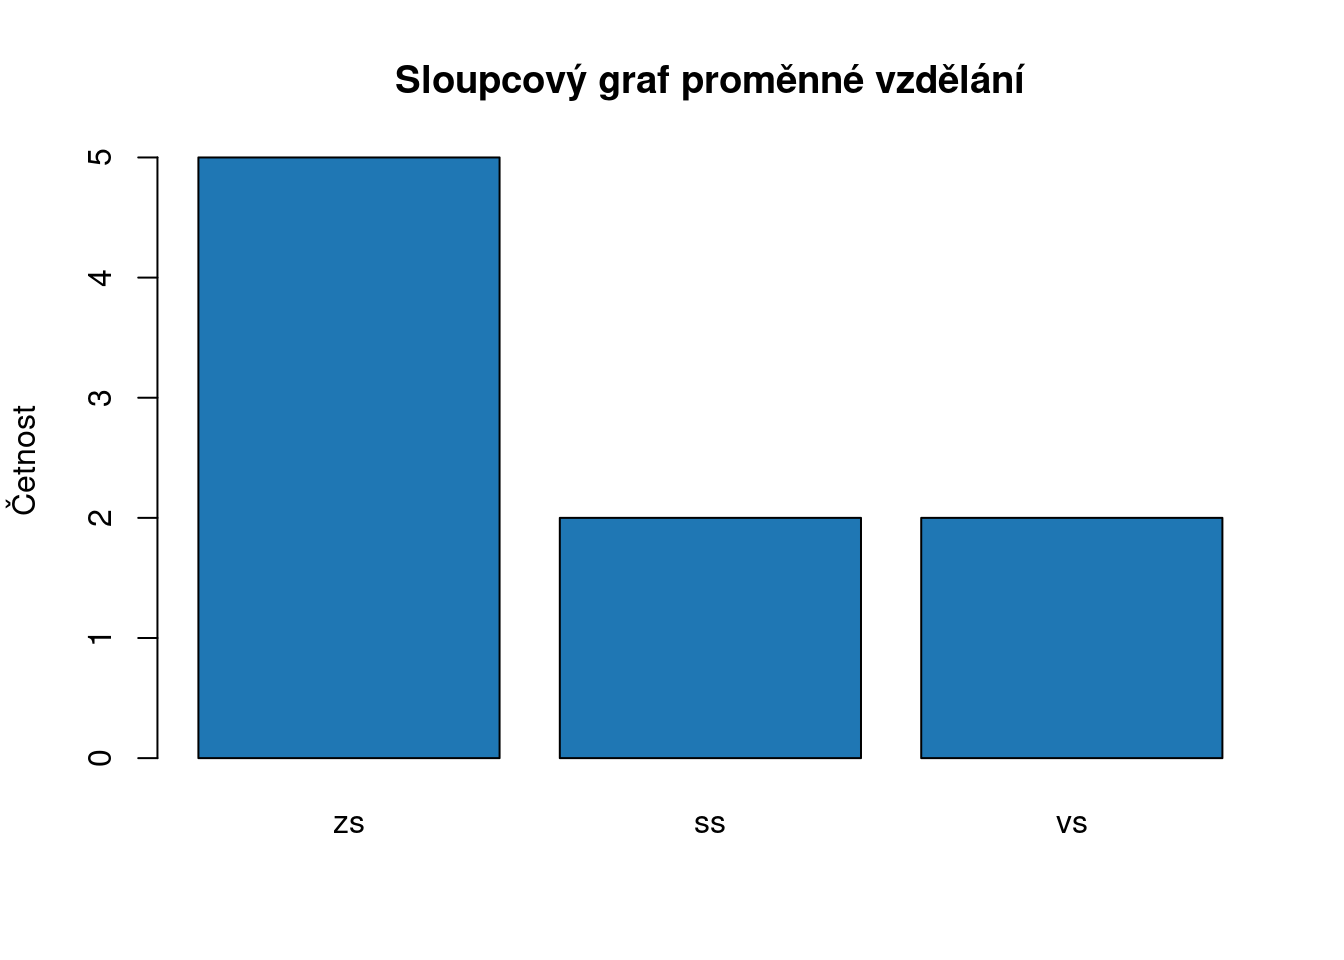
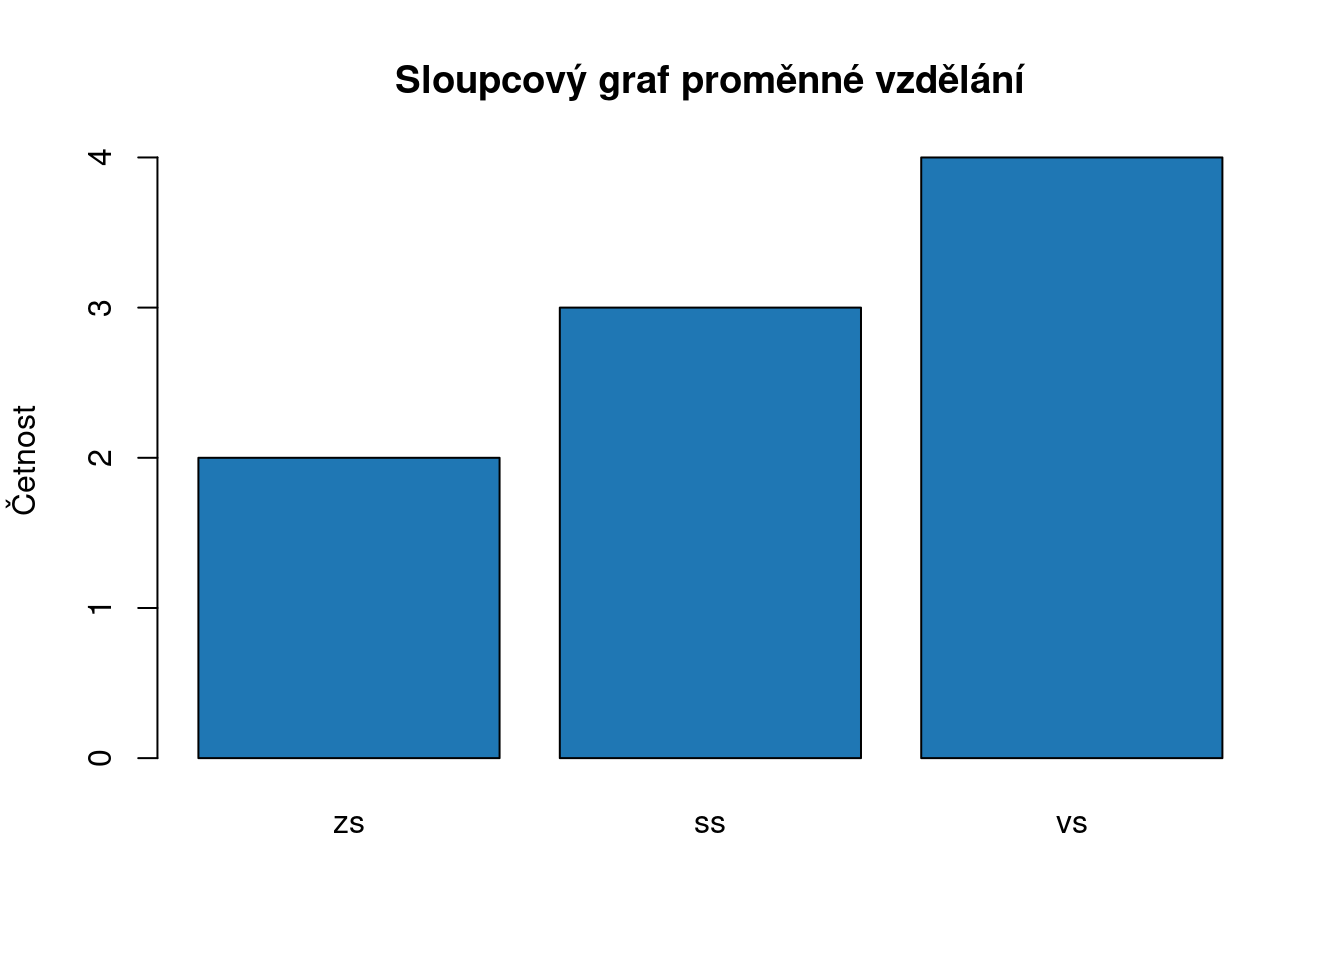
ch1

diff --git a/docs/desc.html b/docs/desc.html
@@ -210,10 +210,10 @@ Příkladem nominální promněnné je například barva. Vezměme si napříkla
 <span id="cb1-5"><a href="desc.html#cb1-5" aria-hidden="true" tabindex="-1"></a><span class="fu">print</span>(tabulka)</span></code></pre></div>
 <pre><code>## barvy_aut
 ##     bila  cervena stribrna   zelena    zluta 
-##       26       16       22       19       17</code></pre>
+##       17       20       16       25       22</code></pre>
 <div class="sourceCode" id="cb3"><pre class="sourceCode r"><code class="sourceCode r"><span id="cb3-1"><a href="desc.html#cb3-1" aria-hidden="true" tabindex="-1"></a><span class="co"># vratime nazev kategorie, ktera se vyskytuje nejcasteji</span></span>
 <span id="cb3-2"><a href="desc.html#cb3-2" aria-hidden="true" tabindex="-1"></a><span class="fu">names</span>(tabulka)[<span class="fu">which.max</span>(tabulka)]</span></code></pre></div>
-<pre><code>## [1] &quot;bila&quot;</code></pre>
+<pre><code>## [1] &quot;zelena&quot;</code></pre>
 <p>Protože budeme modus počítat dále, vytvoříme si funkci, která bude výpočet provádět.</p>
 <div class="sourceCode" id="cb5"><pre class="sourceCode r"><code class="sourceCode r"><span id="cb5-1"><a href="desc.html#cb5-1" aria-hidden="true" tabindex="-1"></a>modus <span class="ot">&lt;-</span> <span class="cf">function</span>(x) {</span>
 <span id="cb5-2"><a href="desc.html#cb5-2" aria-hidden="true" tabindex="-1"></a>  t <span class="ot">&lt;-</span> <span class="fu">table</span>(x)</span>
@@ -233,7 +233,7 @@ U ordinální proměnné, stejně jako u nominální, nemůžeme vypočítat o k
 <span id="cb6-7"><a href="desc.html#cb6-7" aria-hidden="true" tabindex="-1"></a><span class="fu">print</span>(<span class="fu">paste0</span>(<span class="st">&quot;Typ promenne, po prevedeni na factor: &quot;</span>, <span class="fu">class</span>(vzdelani_vyber)))</span></code></pre></div>
 <pre><code>## [1] &quot;Typ promenne, po prevedeni na factor: factor&quot;</code></pre>
 <div class="sourceCode" id="cb8"><pre class="sourceCode r"><code class="sourceCode r"><span id="cb8-1"><a href="desc.html#cb8-1" aria-hidden="true" tabindex="-1"></a><span class="fu">print</span>(vzdelani_vyber)</span></code></pre></div>
-<pre><code>## [1] zs zs zs zs zs ss ss vs vs
+<pre><code>## [1] zs zs ss ss ss vs vs vs vs
 ## Levels: zs ss vs</code></pre>
 <div class="sourceCode" id="cb10"><pre class="sourceCode r"><code class="sourceCode r"><span id="cb10-1"><a href="desc.html#cb10-1" aria-hidden="true" tabindex="-1"></a><span class="co"># vypocitame median</span></span>
 <span id="cb10-2"><a href="desc.html#cb10-2" aria-hidden="true" tabindex="-1"></a>n <span class="ot">&lt;-</span> <span class="dv">9</span></span>
@@ -241,10 +241,10 @@ U ordinální proměnné, stejně jako u nominální, nemůžeme vypočítat o k
 <span id="cb10-4"><a href="desc.html#cb10-4" aria-hidden="true" tabindex="-1"></a>median_vzdelani <span class="ot">&lt;-</span> <span class="fu">sort</span>(vzdelani_vyber)[indx]</span>
 <span id="cb10-5"><a href="desc.html#cb10-5" aria-hidden="true" tabindex="-1"></a></span>
 <span id="cb10-6"><a href="desc.html#cb10-6" aria-hidden="true" tabindex="-1"></a><span class="fu">print</span>(<span class="fu">paste0</span>(<span class="st">&quot;Medián vzdělání je: &quot;</span>, median_vzdelani))</span></code></pre></div>
-<pre><code>## [1] &quot;Medián vzdělání je: zs&quot;</code></pre>
+<pre><code>## [1] &quot;Medián vzdělání je: ss&quot;</code></pre>
 <p>Samozřejmě můžeme u ordinálních proměnných počítat také mód.</p>
 <div class="sourceCode" id="cb12"><pre class="sourceCode r"><code class="sourceCode r"><span id="cb12-1"><a href="desc.html#cb12-1" aria-hidden="true" tabindex="-1"></a><span class="fu">print</span>(<span class="fu">paste0</span>(<span class="st">&quot;Modus proměnné je: &quot;</span>, <span class="fu">modus</span>(vzdelani_vyber)))</span></code></pre></div>
-<pre><code>## [1] &quot;Modus proměnné je: zs&quot;</code></pre>
+<pre><code>## [1] &quot;Modus proměnné je: vs&quot;</code></pre>
 <p>Jak si asi pamatujete z předchozího semestru, u různých proměnných jsme počítali relativní četnosti (četnost je počet pozorování učité hodnoty. Relativní četnost potom počet pozorování děleno počet případů celkem). Například jsme počítali relativní četnost výsledků hodů mincí. Výsledky hodu mincí jsou také nominální proměnnou. Další statistikou, kterou můžete u nominálních a ordinálních proměnných spočítat jsou tedy četnosti. Ty nám řeknou více o rozložení hodnot v proměnné. Pojďme si takový příklad ukázat na našem vzorku se vzděláním.</p>
 <div class="sourceCode" id="cb14"><pre class="sourceCode r"><code class="sourceCode r"><span id="cb14-1"><a href="desc.html#cb14-1" aria-hidden="true" tabindex="-1"></a><span class="co">#absolutni cetnost</span></span>
 <span id="cb14-2"><a href="desc.html#cb14-2" aria-hidden="true" tabindex="-1"></a>absolutni_cetnost <span class="ot">&lt;-</span> <span class="fu">table</span>(vzdelani_vyber)</span>
@@ -253,7 +253,7 @@ U ordinální proměnné, stejně jako u nominální, nemůžeme vypočítat o k
 <span id="cb14-5"><a href="desc.html#cb14-5" aria-hidden="true" tabindex="-1"></a>relativni_cetnost</span></code></pre></div>
 <pre><code>## vzdelani_vyber
 ##        zs        ss        vs 
-## 0.5555556 0.2222222 0.2222222</code></pre>
+## 0.2222222 0.3333333 0.4444444</code></pre>
 <p>Nejčastějším způsobem zobrazení četností je sloupcový graf (bar plot).</p>
 <div class="sourceCode" id="cb16"><pre class="sourceCode r"><code class="sourceCode r"><span id="cb16-1"><a href="desc.html#cb16-1" aria-hidden="true" tabindex="-1"></a><span class="fu">barplot</span>(<span class="fu">table</span>(vzdelani_vyber), </span>
 <span id="cb16-2"><a href="desc.html#cb16-2" aria-hidden="true" tabindex="-1"></a>        <span class="at">main =</span> <span class="st">&quot;Sloupcový graf proměnné vzdělání&quot;</span>, </span>
@@ -275,10 +275,10 @@ Kardinální proměnná nám umožňují seřadit hodnoty a říci o kolik jsou 
 <span id="cb18-3"><a href="desc.html#cb18-3" aria-hidden="true" tabindex="-1"></a></span>
 <span id="cb18-4"><a href="desc.html#cb18-4" aria-hidden="true" tabindex="-1"></a>prumer <span class="ot">&lt;-</span> <span class="fu">sum</span>(pocet_deti) <span class="sc">/</span> <span class="fu">length</span>(pocet_deti)</span>
 <span id="cb18-5"><a href="desc.html#cb18-5" aria-hidden="true" tabindex="-1"></a><span class="fu">print</span>(<span class="fu">paste0</span>(<span class="st">&quot;Průměr proměnné počet dětí je :&quot;</span>, prumer))</span></code></pre></div>
-<pre><code>## [1] &quot;Průměr proměnné počet dětí je :1.882&quot;</code></pre>
+<pre><code>## [1] &quot;Průměr proměnné počet dětí je :1.95&quot;</code></pre>
 <p>Můžeme také požít funckci <code>mean</code></p>
 <div class="sourceCode" id="cb20"><pre class="sourceCode r"><code class="sourceCode r"><span id="cb20-1"><a href="desc.html#cb20-1" aria-hidden="true" tabindex="-1"></a><span class="fu">print</span>(<span class="fu">paste0</span>(<span class="st">&quot;Průměr pomocí funkce mean :&quot;</span>, <span class="fu">mean</span>(pocet_deti)))</span></code></pre></div>
-<pre><code>## [1] &quot;Průměr pomocí funkce mean :1.882&quot;</code></pre>
+<pre><code>## [1] &quot;Průměr pomocí funkce mean :1.95&quot;</code></pre>
 <p>Pojďme si ještě vypočítat modus a medián. U číselných proměnných (<code>numeric</code>) můžeme k výpočtu mediánu použít funkci <code>median</code>.</p>
 <div class="sourceCode" id="cb22"><pre class="sourceCode r"><code class="sourceCode r"><span id="cb22-1"><a href="desc.html#cb22-1" aria-hidden="true" tabindex="-1"></a><span class="fu">print</span>(<span class="fu">paste0</span>(<span class="st">&quot;Modus proměnné počt dětí je: &quot;</span>, <span class="fu">modus</span>(pocet_deti)))</span></code></pre></div>
 <pre><code>## [1] &quot;Modus proměnné počt dětí je: 2&quot;</code></pre>
@@ -288,7 +288,7 @@ Kardinální proměnná nám umožňují seřadit hodnoty a říci o kolik jsou 
 <div class="sourceCode" id="cb26"><pre class="sourceCode r"><code class="sourceCode r"><span id="cb26-1"><a href="desc.html#cb26-1" aria-hidden="true" tabindex="-1"></a><span class="fu">print</span>(<span class="fu">table</span>(pocet_deti))</span></code></pre></div>
 <pre><code>## pocet_deti
 ##   0   1   2   3   4 
-##  86 262 413 162  77</code></pre>
+##  74 256 408 170  92</code></pre>
 <p>nebylo by průměrný počet dětí v datech možné vypočítat pomocí <span class="math inline">\(\overline{x} = (0+1+2+3+4) / 5\)</span>, protože v datech nemáme stejný počet rodin s 0 dětmi, 1 dítětem apod. Musíme jednotlivým hodnotám dát jinou váhu <span class="math inline">\(w_i\)</span> podle toho, kolik jich je v našich datech. V R bychom takovýto vážený průměr mohli vypočítat jako</p>
 <div class="sourceCode" id="cb28"><pre class="sourceCode r"><code class="sourceCode r"><span id="cb28-1"><a href="desc.html#cb28-1" aria-hidden="true" tabindex="-1"></a>w <span class="ot">&lt;-</span> <span class="fu">table</span>(pocet_deti)</span>
 <span id="cb28-2"><a href="desc.html#cb28-2" aria-hidden="true" tabindex="-1"></a><span class="co"># prevedeme hodnoty 0,1,2,3,4 do numericke promenne, </span></span>
@@ -297,7 +297,7 @@ Kardinální proměnná nám umožňují seřadit hodnoty a říci o kolik jsou 
 <span id="cb28-5"><a href="desc.html#cb28-5" aria-hidden="true" tabindex="-1"></a></span>
 <span id="cb28-6"><a href="desc.html#cb28-6" aria-hidden="true" tabindex="-1"></a>vazeny_prumer <span class="ot">&lt;-</span> <span class="fu">sum</span>(w <span class="sc">*</span> x_i) <span class="sc">/</span> <span class="fu">sum</span>(w)</span>
 <span id="cb28-7"><a href="desc.html#cb28-7" aria-hidden="true" tabindex="-1"></a><span class="fu">print</span>(<span class="fu">paste0</span>(<span class="st">&quot;Vážený průměr je: &quot;</span>, vazeny_prumer))</span></code></pre></div>
-<pre><code>## [1] &quot;Vážený průměr je: 1.882&quot;</code></pre>
+<pre><code>## [1] &quot;Vážený průměr je: 1.95&quot;</code></pre>
 <p>Cože je stejné číslo, jaké jsme dostali, když jsme měli k dispozici všech 1000 pozorování proměnné.</p>
 <p>U kardinálních spojitých proměnných používáme k vizuálnímu ověření rozložení hodnot proměnné <strong>histogram</strong>. Histogram je jako sloupcový graf absolutních/relativních četností. Protože u spojitých proměnných neexistuje přirozená hranice pro sloupec, funkce <code>hist</code> vytvoří základní hranice pro sloupce. Ty ale můžete upravit pomocí argumentu <code>breaks</code>.</p>
 <div class="sourceCode" id="cb30"><pre class="sourceCode r"><code class="sourceCode r"><span id="cb30-1"><a href="desc.html#cb30-1" aria-hidden="true" tabindex="-1"></a><span class="fu">hist</span>(pocet_deti, <span class="at">breaks =</span> <span class="fu">c</span>(<span class="dv">0</span>,<span class="dv">1</span>,<span class="dv">2</span>,<span class="dv">3</span>,<span class="dv">4</span>,<span class="dv">5</span>), <span class="at">probability =</span> <span class="cn">TRUE</span>, </span>
@@ -313,14 +313,14 @@ Jak jsme uvedli na začátku, úkolem popisné statistiky není pouze přiblíž
 <span id="cb31-2"><a href="desc.html#cb31-2" aria-hidden="true" tabindex="-1"></a>rozptyl <span class="ot">&lt;-</span> <span class="fu">sum</span>(vzdalenost_od_prumeru) <span class="sc">/</span> <span class="fu">length</span>(pocet_deti)</span>
 <span id="cb31-3"><a href="desc.html#cb31-3" aria-hidden="true" tabindex="-1"></a>smerodatna_odchylka <span class="ot">&lt;-</span> <span class="fu">sqrt</span>(rozptyl)</span>
 <span id="cb31-4"><a href="desc.html#cb31-4" aria-hidden="true" tabindex="-1"></a><span class="fu">print</span>(<span class="fu">paste0</span>(<span class="st">&quot;Rozptyl je:&quot;</span>, rozptyl))</span></code></pre></div>
-<pre><code>## [1] &quot;Rozptyl je:1.062076&quot;</code></pre>
+<pre><code>## [1] &quot;Rozptyl je:1.0875&quot;</code></pre>
 <div class="sourceCode" id="cb33"><pre class="sourceCode r"><code class="sourceCode r"><span id="cb33-1"><a href="desc.html#cb33-1" aria-hidden="true" tabindex="-1"></a><span class="fu">print</span>(<span class="fu">paste0</span>(<span class="st">&quot;Směrodatná odchylka je:&quot;</span>, smerodatna_odchylka))</span></code></pre></div>
-<pre><code>## [1] &quot;Směrodatná odchylka je:1.03057071567166&quot;</code></pre>
+<pre><code>## [1] &quot;Směrodatná odchylka je:1.04283268073071&quot;</code></pre>
 <p>V R můžeme roztyl a směrodatnou odchylku vypočítat pomocí funkcí <code>var</code> a <code>sd</code>. Vzorec, který se v R používá počítá výběrový roztyl a směrodatnou odchylku, ve jmenovateli tedy používá <span class="math inline">\(n - 1\)</span>. Rozdíl v těchto přístupech teď není důležitý a ukážeme si ho na dalších cvičeních. Uvádíme ho zde jenom, abychom rozuměli proč jsu výsledky jiné než ty, které jsme spočítali my.</p>
 <div class="sourceCode" id="cb35"><pre class="sourceCode r"><code class="sourceCode r"><span id="cb35-1"><a href="desc.html#cb35-1" aria-hidden="true" tabindex="-1"></a><span class="fu">print</span>(<span class="fu">paste0</span>(<span class="st">&quot;Rozptyl pomocí funkce var je:&quot;</span>, <span class="fu">var</span>(pocet_deti)))</span></code></pre></div>
-<pre><code>## [1] &quot;Rozptyl pomocí funkce var je:1.06313913913914&quot;</code></pre>
+<pre><code>## [1] &quot;Rozptyl pomocí funkce var je:1.08858858858859&quot;</code></pre>
 <div class="sourceCode" id="cb37"><pre class="sourceCode r"><code class="sourceCode r"><span id="cb37-1"><a href="desc.html#cb37-1" aria-hidden="true" tabindex="-1"></a><span class="fu">print</span>(<span class="fu">paste0</span>(<span class="st">&quot;Směrodatná odchylka pomoci funkce sd je:&quot;</span>, <span class="fu">sd</span>(pocet_deti)))</span></code></pre></div>
-<pre><code>## [1] &quot;Směrodatná odchylka pomoci funkce sd je:1.03108638781585&quot;</code></pre>
+<pre><code>## [1] &quot;Směrodatná odchylka pomoci funkce sd je:1.0433544884595&quot;</code></pre>
 <p>Ukažme si princip rozptylu/směrodatné odchylky na imaginárních datech. Na ukázku si vytvoříme proměnnou, která má 10 pozorování a zobrazíme je do grafu jako body. Červená čára označuje průměr těchto bodů. Horizontální čáry potom označují vzdálenost každého pozorování od průměrné hodnoty. Nejdříve si ukážeme příklad s menším rozptylem hodnot a pod ním příklad rozložení s větším rozptylem hodnot. Protože mají oba příklady stejný počet pozorování (10), můžete si rozdíl v jejich rozptylu představit jako rozdíl jejich</p>
 <div class="sourceCode" id="cb39"><pre class="sourceCode r"><code class="sourceCode r"><span id="cb39-1"><a href="desc.html#cb39-1" aria-hidden="true" tabindex="-1"></a><span class="fu">par</span>(<span class="at">mfrow =</span> <span class="fu">c</span>(<span class="dv">2</span>,<span class="dv">1</span>))</span>
 <span id="cb39-2"><a href="desc.html#cb39-2" aria-hidden="true" tabindex="-1"></a>x <span class="ot">&lt;-</span> <span class="fu">rnorm</span>(<span class="dv">10</span>, <span class="dv">5</span>, <span class="at">sd =</span> <span class="dv">1</span>)</span>
